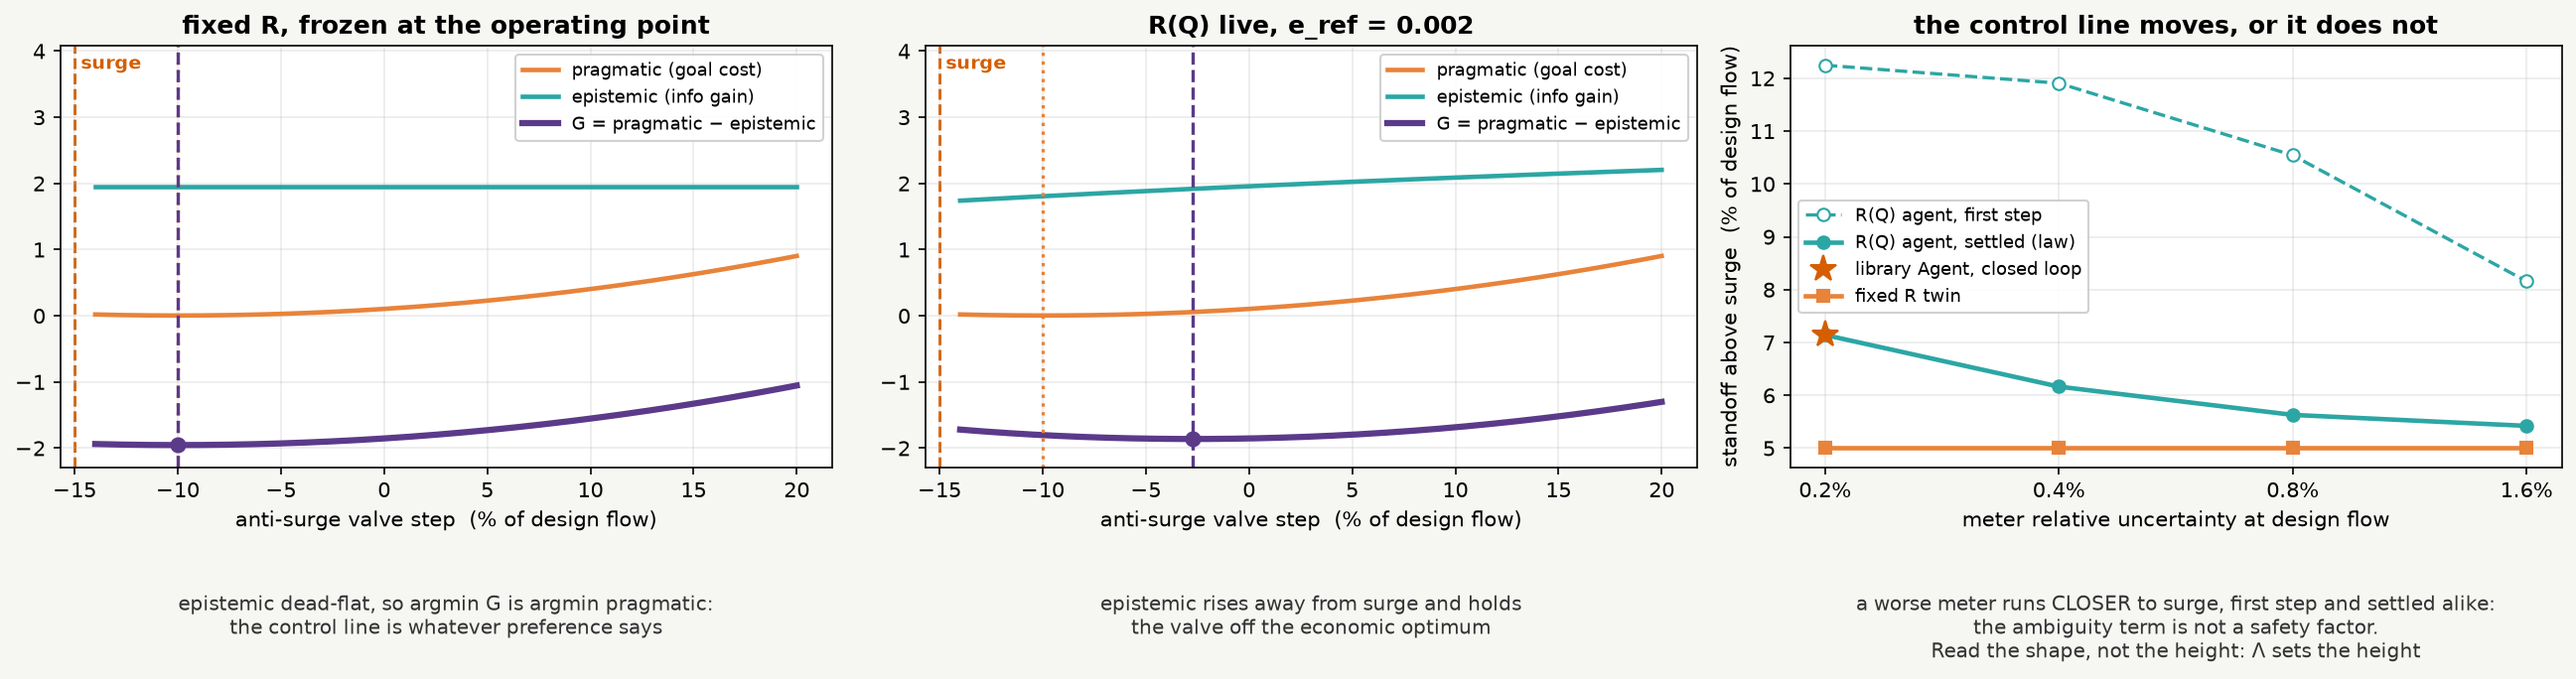
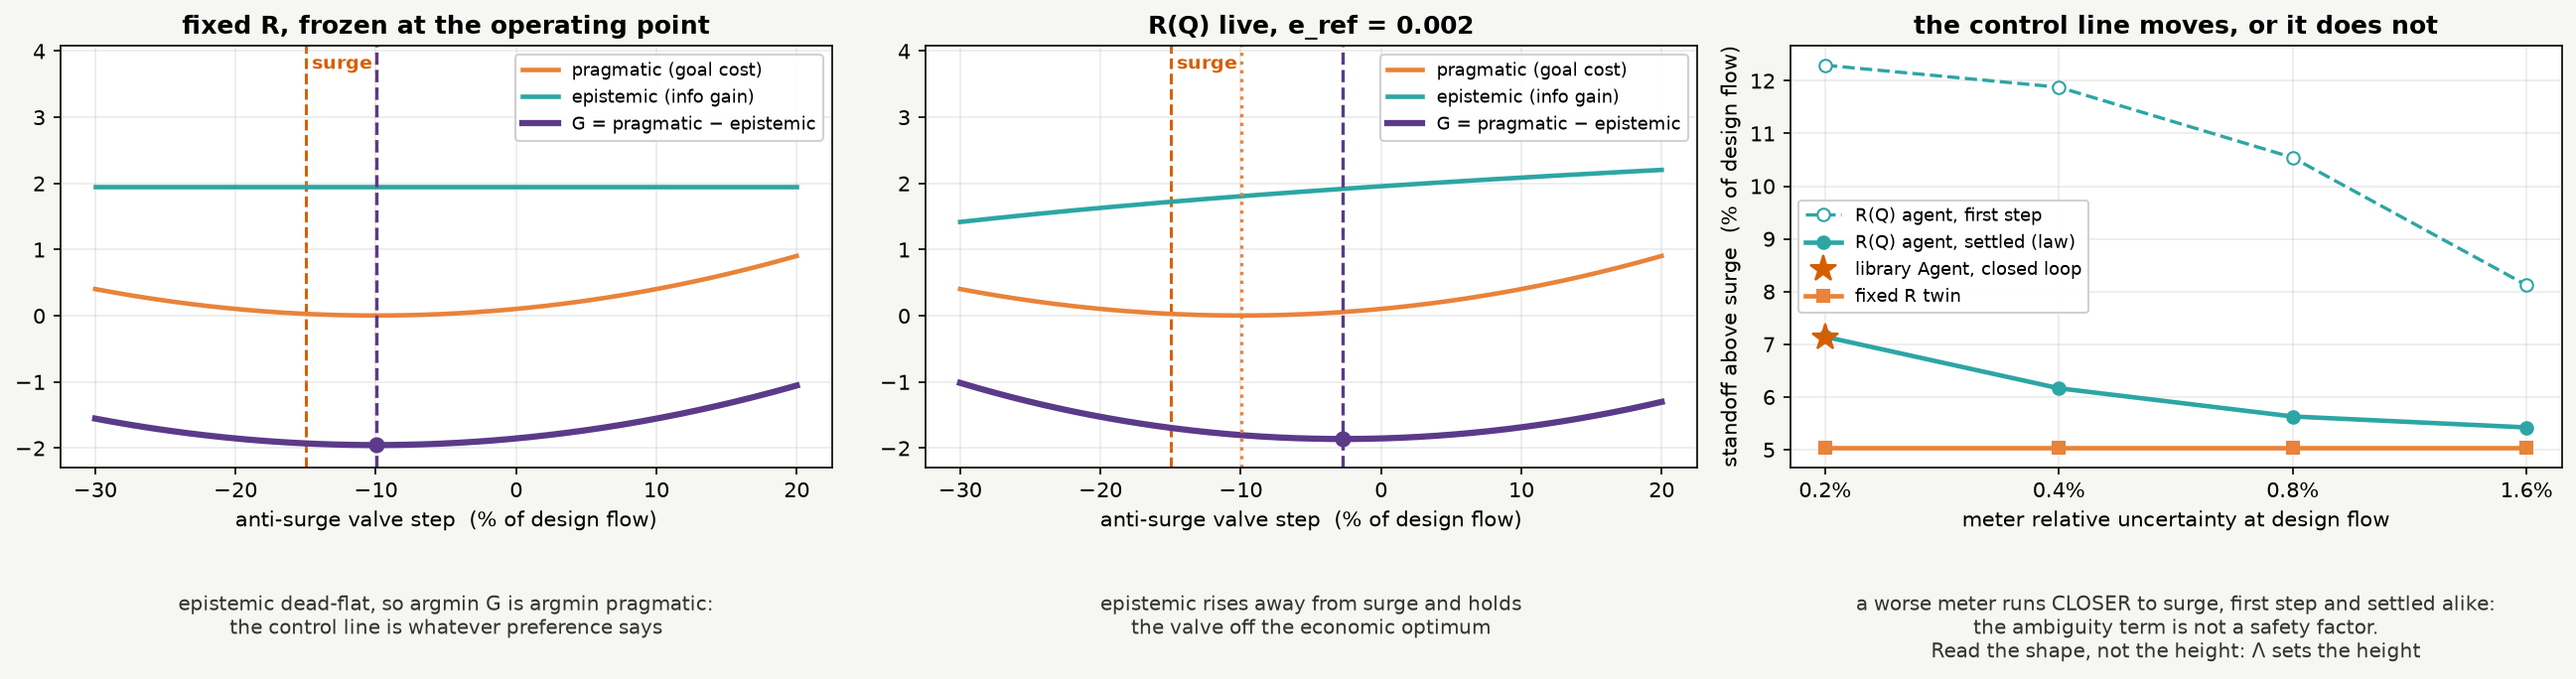
feat(examples): widen the surge valve grid past the surge line

diff --git a/examples/surge_margin.py b/examples/surge_margin.py
@@ -145,8 +145,10 @@ GOAL_MARGIN = 5.0
 GOAL_PRECISION = 0.002
 
 # The valve grid. Its resolution is also the bar the monotonicity row is read against,
-# so both come from this one line.
-ACTIONS = jnp.linspace(-14.0, 20.0, 400)
+# so both come from this one line. It reaches 15% of design flow past the surge line.
+# `_interior_argmin` refuses a minimum on the edge, and a grid that stopped short of
+# surge would act as an interlock nobody declared, deciding where the agent may go.
+ACTIONS = jnp.linspace(-30.0, 20.0, 600)
 GRID_STEP = float(ACTIONS[1] - ACTIONS[0])
 
 # An 8:1 ladder in meter quality, anchored on E_REF at the good end. Doubling rather
@@ -275,7 +277,7 @@ def _cached_sweep(
     The rows and the printout ask for the same settings more than once, and the ladders
     share their first rung with the default. Fourteen distinct settings cover the
     whole check. `gallery.efe_sweep` loops eagerly, which suits the tens of actions it
-    was written for and not the 400 here.
+    was written for and not the 600 here.
     """
     model, belief, goal = _model(e_ref, live=live), _belief(), _goal(precision)
     g, parts = jax.vmap(
@@ -611,7 +613,7 @@ def _slope_deviation() -> tuple[float, float]:
 @cache
 def _sensor_report():
     """The library's own verdict on whether the sensor earns its keep over the grid."""
-    actions = [jnp.array([a]) for a in np.asarray(ACTIONS)[::16]]
+    actions = [jnp.array([a]) for a in np.asarray(ACTIONS)[::24]]
     return probe_model(_model(), _belief(), actions)
 
 

diff --git a/tests/test_example_checks.py b/tests/test_example_checks.py
@@ -51,7 +51,7 @@ def test_surge_margin_check():
     checks that every settled rung stays clear of the preference and that a worse meter
     still settles nearer it.
 
-    Fourteen vmapped sweeps of 400 grid actions and two 40-step agent loops, each
+    Fourteen vmapped sweeps of 600 grid actions and two 40-step agent loops, each
     computed once, a few seconds, so it stays on the pull-request path.
     """
     surge_margin.check()
